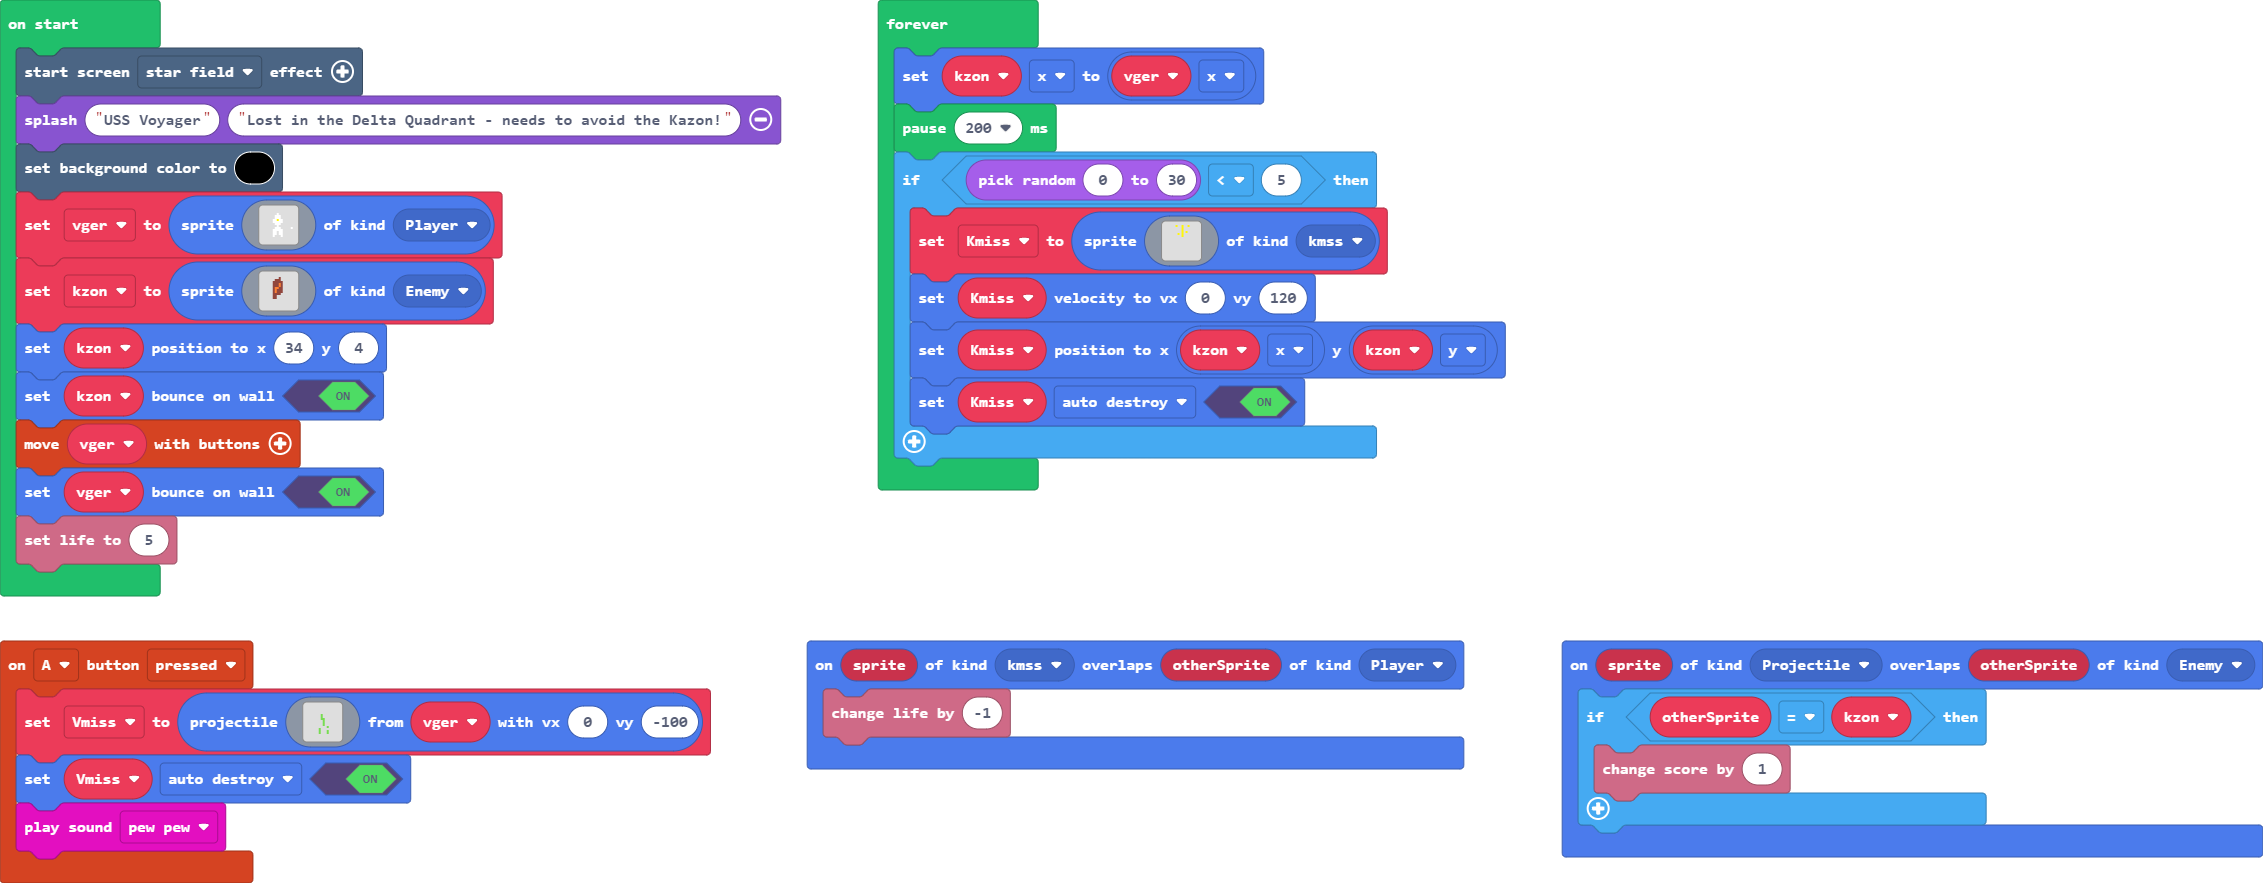
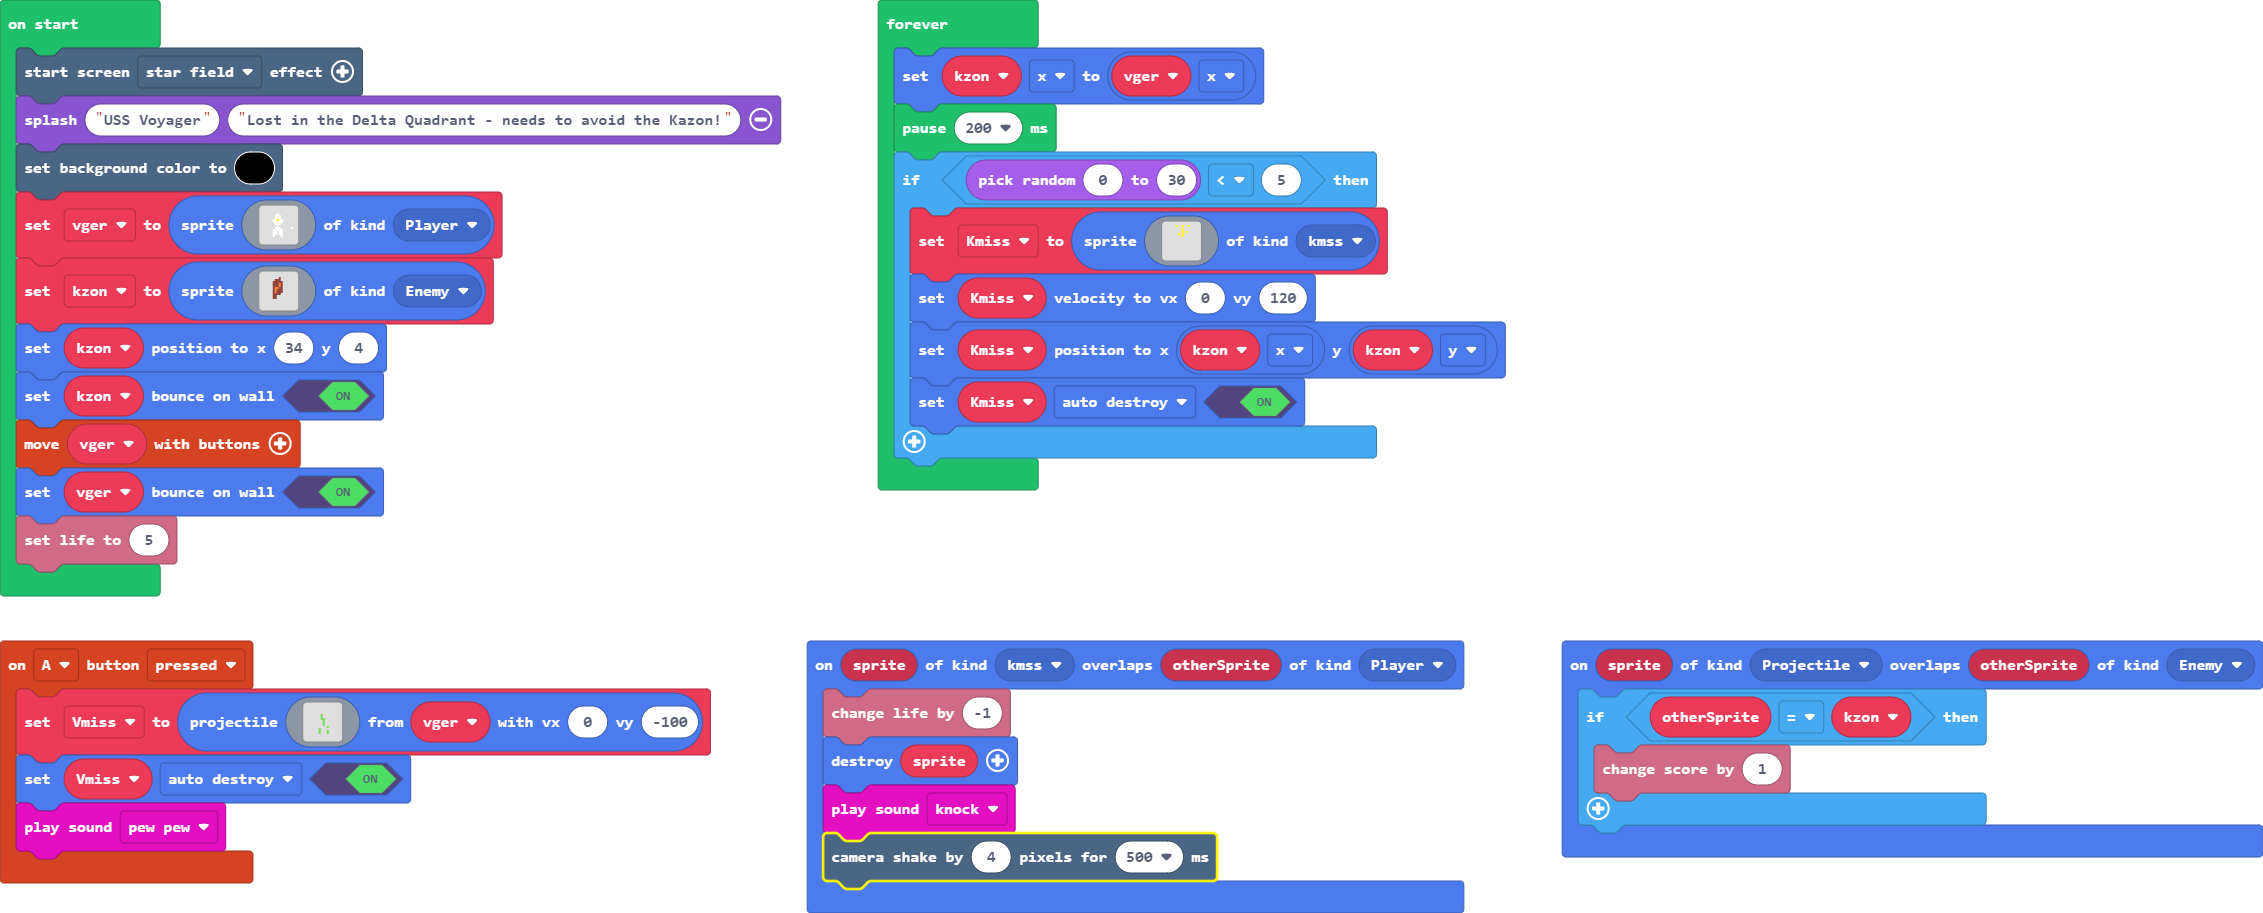
Update main.blocks, main.ts

Changed region(s): [[0.0, 0.0306, 0.6496, 1.0], [0.3712, 0.0306, 0.6805, 0.581], [0.6805, 0.7033, 1.0, 0.9785]]

diff --git a/main.ts b/main.ts
@@ -8,8 +8,9 @@ controller.A.onEvent(ControllerButtonEvent.Pressed, function () {
 })
 sprites.onOverlap(SpriteKind.kmss, SpriteKind.Player, function (sprite, otherSprite) {
     info.changeLifeBy(-1)
-    scene.cameraShake(4, 500)
+    sprite.destroy()
     music.knock.play()
+    scene.cameraShake(4, 500)
 })
 sprites.onOverlap(SpriteKind.Projectile, SpriteKind.Enemy, function (sprite, otherSprite) {
     if (otherSprite == kzon) {
